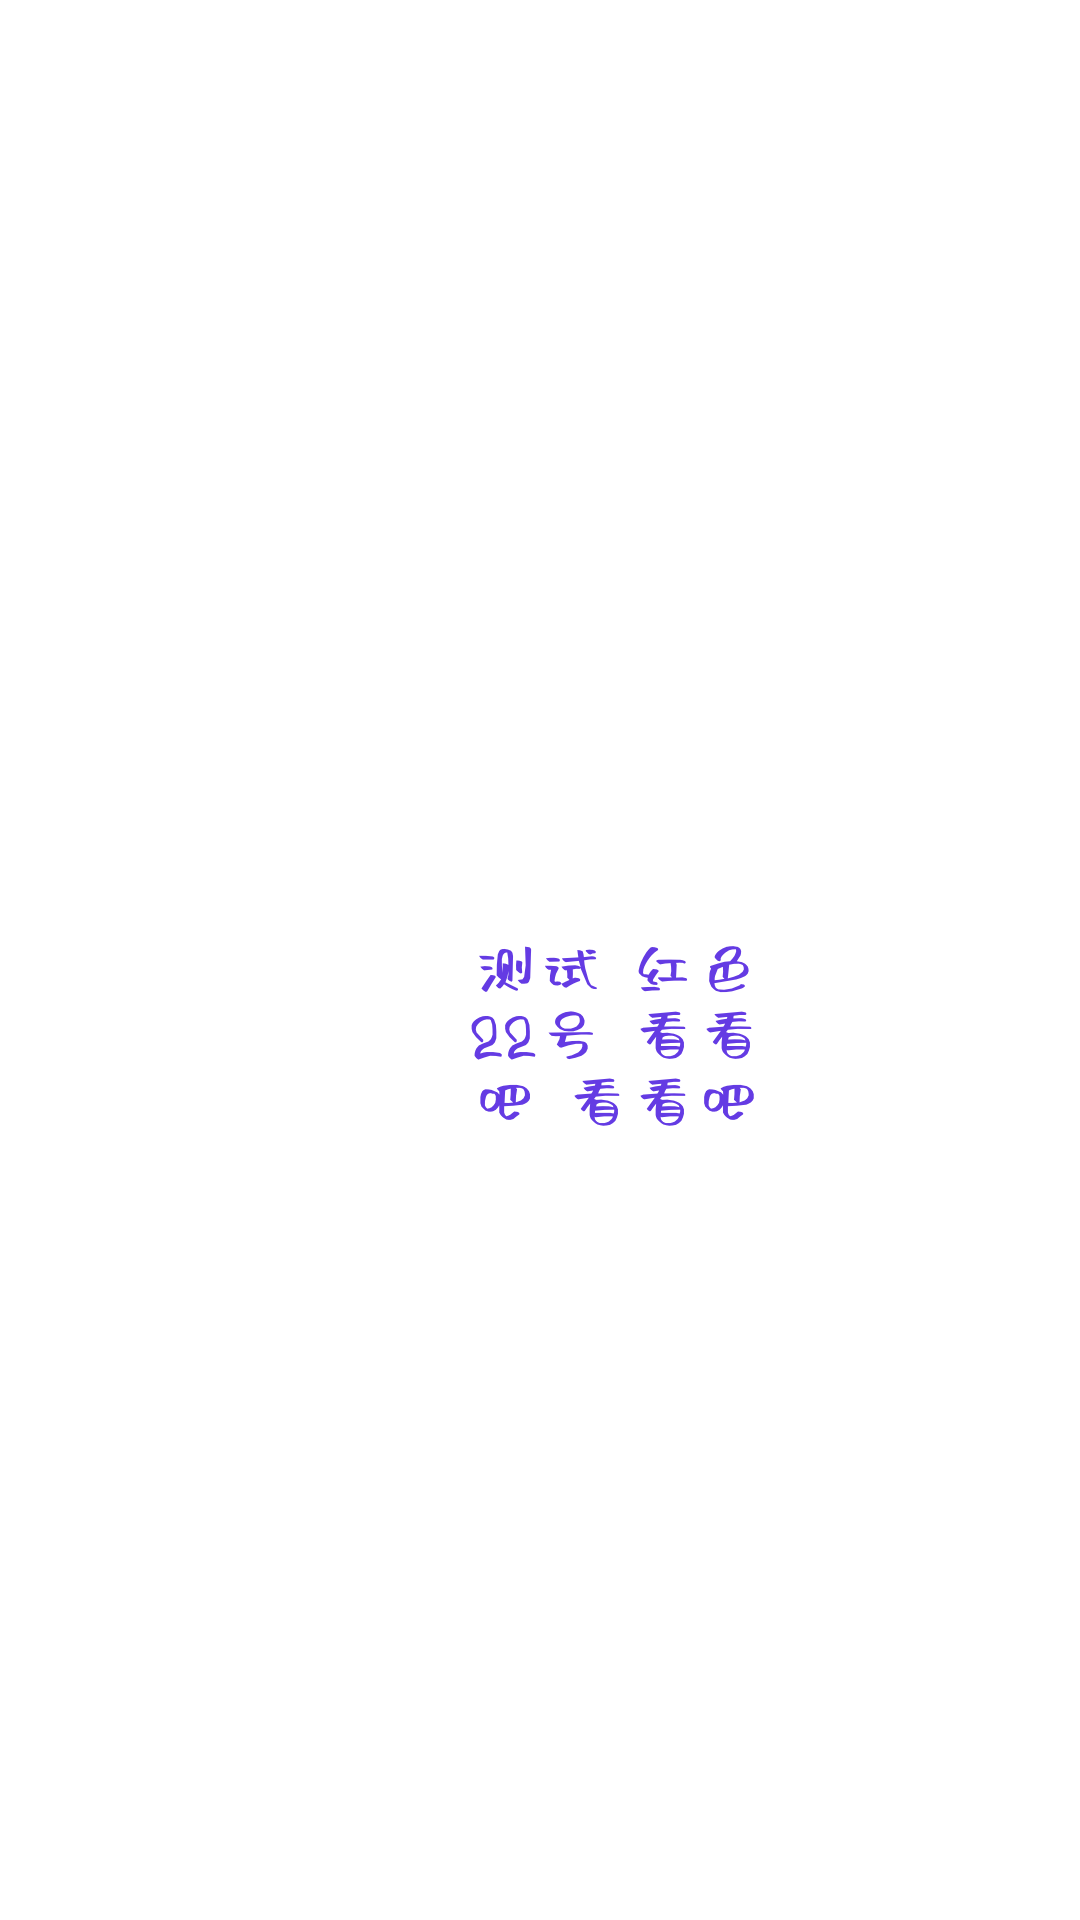
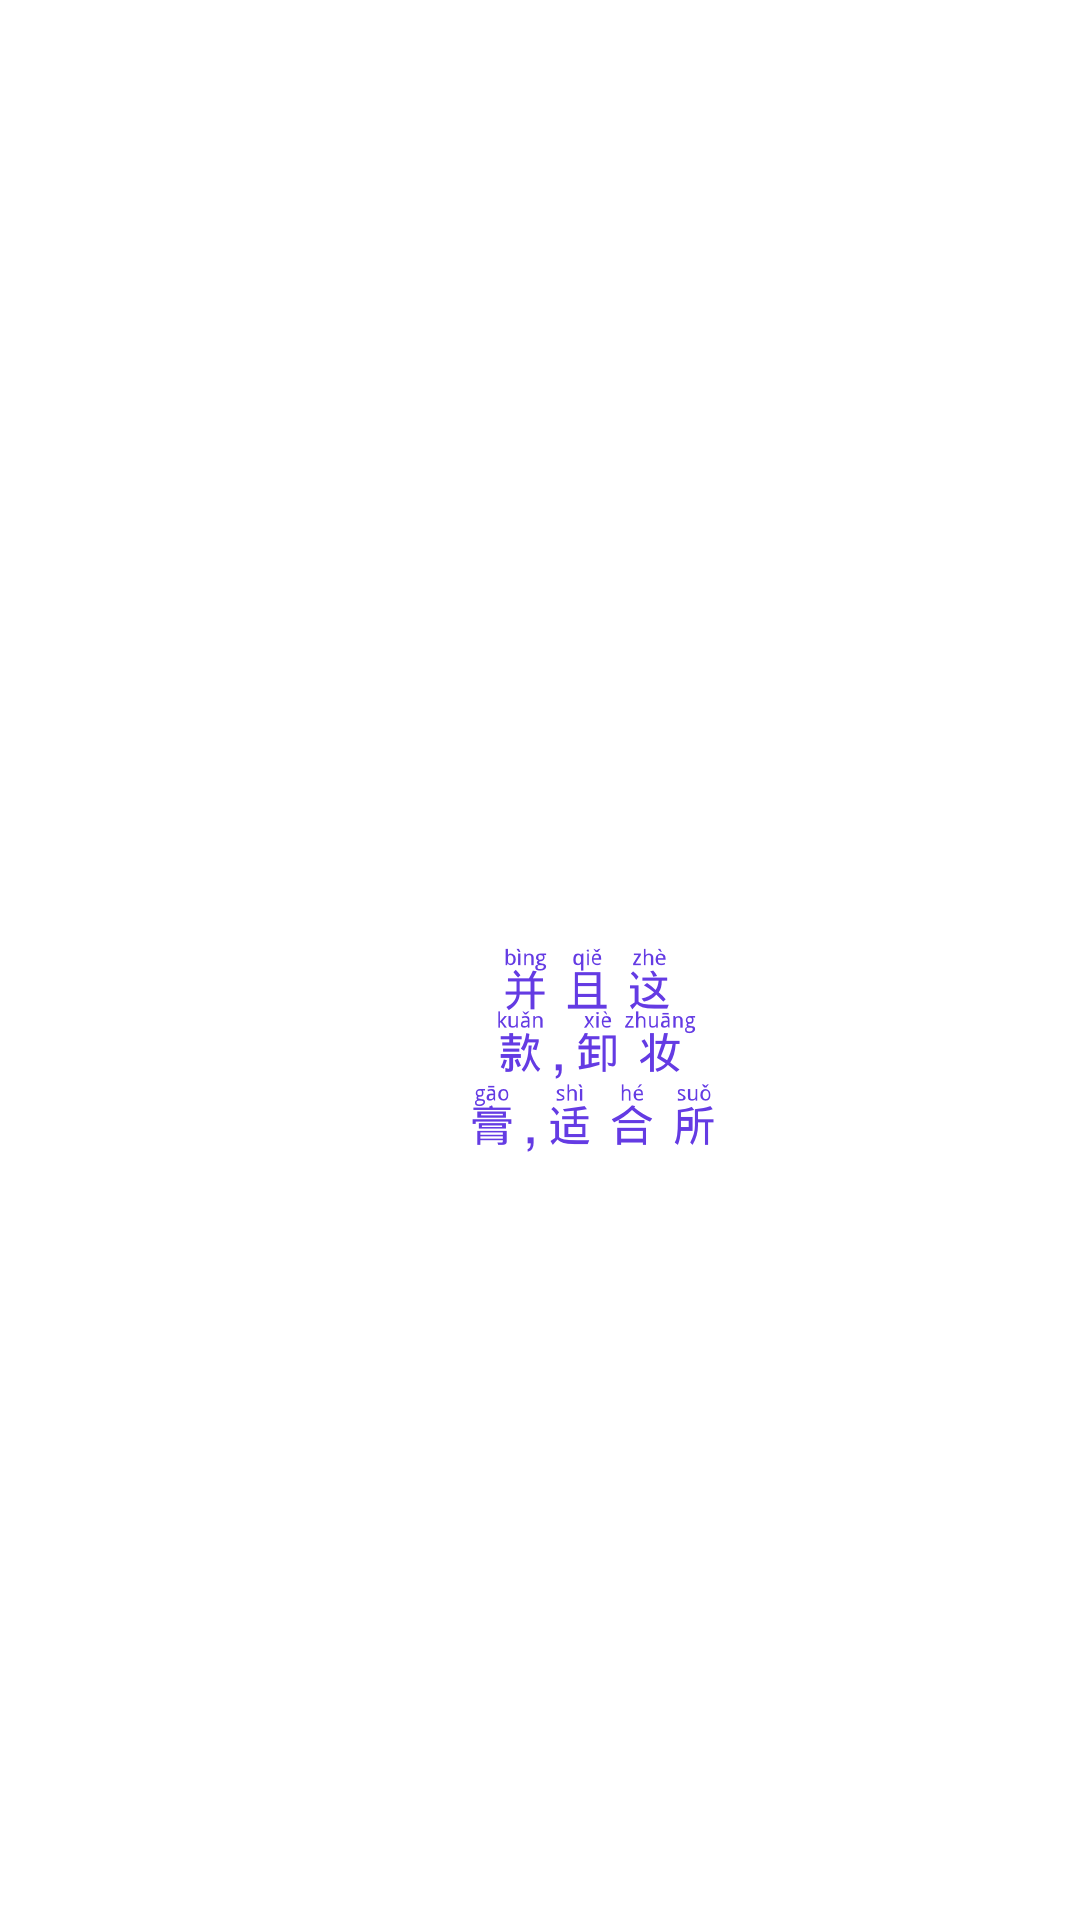
修改了文字换行逻辑，现在如果下一个字符是标点符号，会一起换行

Changed region(s): [[0.4278, 0.4688, 0.7028, 0.5938]]

diff --git a/write_text/writer.py b/write_text/writer.py
@@ -40,19 +40,33 @@ class TextTools:
         line_count = 1
         line_height = 0
         line_width = []  # 用于记录当前文本段中，每一行的宽度，两种情况会记录，一是长度到了自动换行时，二是到最后一个字了
+
         for ind in range(len(text)):
             if sum_width == 0 and text[ind] == ' ':
                 continue
-
+            tt = text[ind]
             width, height = draw.textsize(text[ind], self.font)
+
             sum_width += width
             paragraph += text[ind]
             line_height = max(height, line_height)
             if ind < len(text) - 1:
                 next_width, _ = draw.textsize(text[ind + 1], self.font)
+                if next_width == 0 and _ != 0:
+                    next_width, _ = draw.textsize(text[ind], self.font)
             else:
                 next_width = 0  # 最后一个字了
             if sum_width + next_width > self.width:  # 超过预设宽度就修改段落 以及当前行数
+                # 但是当下一个字符为标点符号时，改字直接换行和下一个标点符号一起
+
+                if ind < len(text) - 1 and text[ind + 1] in [',', '.', '，', '。', ':', '：']:
+                    paragraph = ''.join(list(paragraph)[:-1])  # 该字段不计入
+                    # text = list(text)
+                    insert_text = list(text).copy()  # 将去掉的字加到下一行中
+                    insert_text.insert(ind + 1, text[ind])
+                    text = ''.join(insert_text)
+                    sum_width -= width
+
                 line_count += 1
                 line_width.append(sum_width)
                 sum_width = 0
@@ -337,25 +351,40 @@ def write_ass(bkg_info, text_info, output_dir):
 
 
 if __name__ == '__main__':
-    a = {'top': 933,
-         'bold': 'false',
-         'font': '阿朱泡泡体',
-         'left': 455,
-         'color': '#e33b64',
-         'width': 315,
-         'height': 433,
-         'italic': 'false',
-         'content': '测试 红色 22号 看看吧 看看吧 看看吧 看啊看啊 看看 看看看a',
-         'duration': 5,
-         'alignment': '0',
-         'font_size': 22,
-         'underline': 'false', 'layer_order': 5, 'is_animation': 'false'}
-    print(3.1//2)
+    a = {'fps': 25,
+         'stories': [
+             {'fps': 25,
+              'order': 1,
+              'lay_out': {
+                  'text': [
+                      {'top': 530, 'bold': 'false', 'font': 'simhei', 'left': 322, 'color': '#ffffff', 'width': 500, 'height': 340, 'italic': 'false', 'content': '测试测试测试测试测，试测试测试', 'duration': 5, 'alignment': '0', 'font_size': 18, 'underline': 'false', 'layer_order': 2, 'is_animation': 'false'},
+                      {'top': 375, 'bold': 'false', 'font': 'simhei', 'left': 102, 'color': '#ffeb3b', 'width': 100, 'height': 670, 'italic': 'false', 'content': '测试测试测试自动回车1231231231231231222', 'duration': 5, 'alignment': '0', 'font_size': 18, 'underline': 'false', 'layer_order': 9, 'is_animation': 'false'},
+                      {'top': 585, 'bold': 'true', 'font': 'simhei', 'left': 865, 'color': '#e5e5e5', 'width': 487, 'height': 365, 'italic': 'true', 'content': '测试测试中对齐中对，齐', 'duration': 5, 'alignment': '1', 'font_size': 18, 'underline': 'true', 'layer_order': 6, 'is_animation': 'false'},
+                      {'top': 682, 'bold': 'false', 'font': 'simhei', 'left': 1422, 'color': '#433ecc', 'width': 462, 'height': 347, 'italic': 'false', 'content': '测试测，，试右对齐', 'duration': 5, 'alignment': '2', 'font_size': 24, 'underline': 'false', 'layer_order': 8, 'is_animation': 'false'}], 'charts': [], 'images': [{'top': 0, 'url': 'https://public-1255423687.cos.ap-shanghai.myqcloud.com/bg_import_1652364804024.jpg', 'crop': {}, 'left': 0, 'text': {}, 'width': 1920, 'height': 1080, 'duration': 30, 'layer_order': 0}], 'videos': [], 'persons': [{'id': 'huayuan8_mouth', 'top': 37, 'crop': {'top': 23, 'left': 91, 'width': 524, 'circle': 'true', 'height': 524}, 'left': 10, 'text': {'content': '测试文本'}, 'audio': 'maoxiaomei', 'speed': 1, 'width': 285, 'height': 285, 'duration': 5, 'layer_order': 4}]}, 'batch_no': '996053086667538432'}], 'batch_no': '996053086667538432', 'resolution': '1920*1080', 'video_type': 'mp4', 'time_now': '16_35_5', 'base': '/data/caopei/1-code/0_BGC_chopei/local/996053086667538432'}
+    print(3.1 // 2)
     # os.system(f"ffmpeg -i ./data_for_test/white.png -vf scale=1080:1920 ./data_for_test/white_1080_1920.png")
-    TextWriter(content='测试 红色 22号 看看吧 看看吧 看看吧 看啊看啊 看看 看看看a',
+    # {"Mengshen-HanSerif": ["Mengshen-HanSerif.ttf", "Mengshen-Regular"],
+    #  "simsun": ["simsun.ttc", "SimSun"],
+    #  "宋体": ["simsun.ttc", "SimSun"],
+    #  "清松手写体4": ["清松手写体4.ttf", "JasonHandwriting4"],
+    #  "jf-openhuninn-1": ["jf-openhuninn-1.0.ttf", "jf-openhuninn-1.0"],
+    #  "Mengshen-Handwritten": ["Mengshen-Handwritten.ttf", "Mengshen-Handwritten"],
+    #  "素材集市社会体": ["素材集市社会体.otf", "SuCaiJiShi-SheHuiTi"],
+    #  "setofont": ["setofont.ttf", "SetoFont"],
+    #  "飞花宋体": ["飞花宋体.ttf", "FlyFlowerSong"],
+    #  "simhei": ["simhei.ttf", "SimHei"],
+    #  "黑体": ["simhei.ttf", "SimHei"],
+    #  "BabelStoneHan": ["BabelStoneHan.ttf", "BabelStone Han"],
+    #  "Hanzi-Pinyin-Font": ["Hanzi-Pinyin-Font.top.ttf", "Hanzi-Pinyin-Font"],
+    #  "SourceHanSerifCN-Regular": ["SourceHanSerifCN-Regular.otf", "Source Han Serif CN"],
+    #  "瑞美加张清平硬笔楷书": ["瑞美加张清平硬笔楷书.ttf", "Ramega ZhangQingpingYingbiKaishu"],
+    #  "阿朱泡泡体": ["阿朱泡泡体.ttf", "AZPPT_1_1436212_19"],
+    #  "逐浪萌芽字": ["逐浪萌芽字.ttf", "ZoomlaMengyas-A080"]}
+
+    TextWriter(content='测试测，，试右对齐',
                # self.t_top, self.t_left, self.t_width, self.t_height
-               loc=[933, 455, 315, 433],
-               font=['阿朱泡泡体.ttf', 'AZPPT_1_1436212_19'], fontsize=22 * 3,
+               loc=[682, 1422, 462, 347],
+               font=["simhei.ttf", "SimHei"], fontsize=24 * 3,
                font_type='000',
-               font_color='#e33b64', input_dir='./data_for_test/white_1080_1920.png',
+               font_color='#e33b64', input_dir='./data_for_test/white.png',
                output_dir='result/123.png').run()
